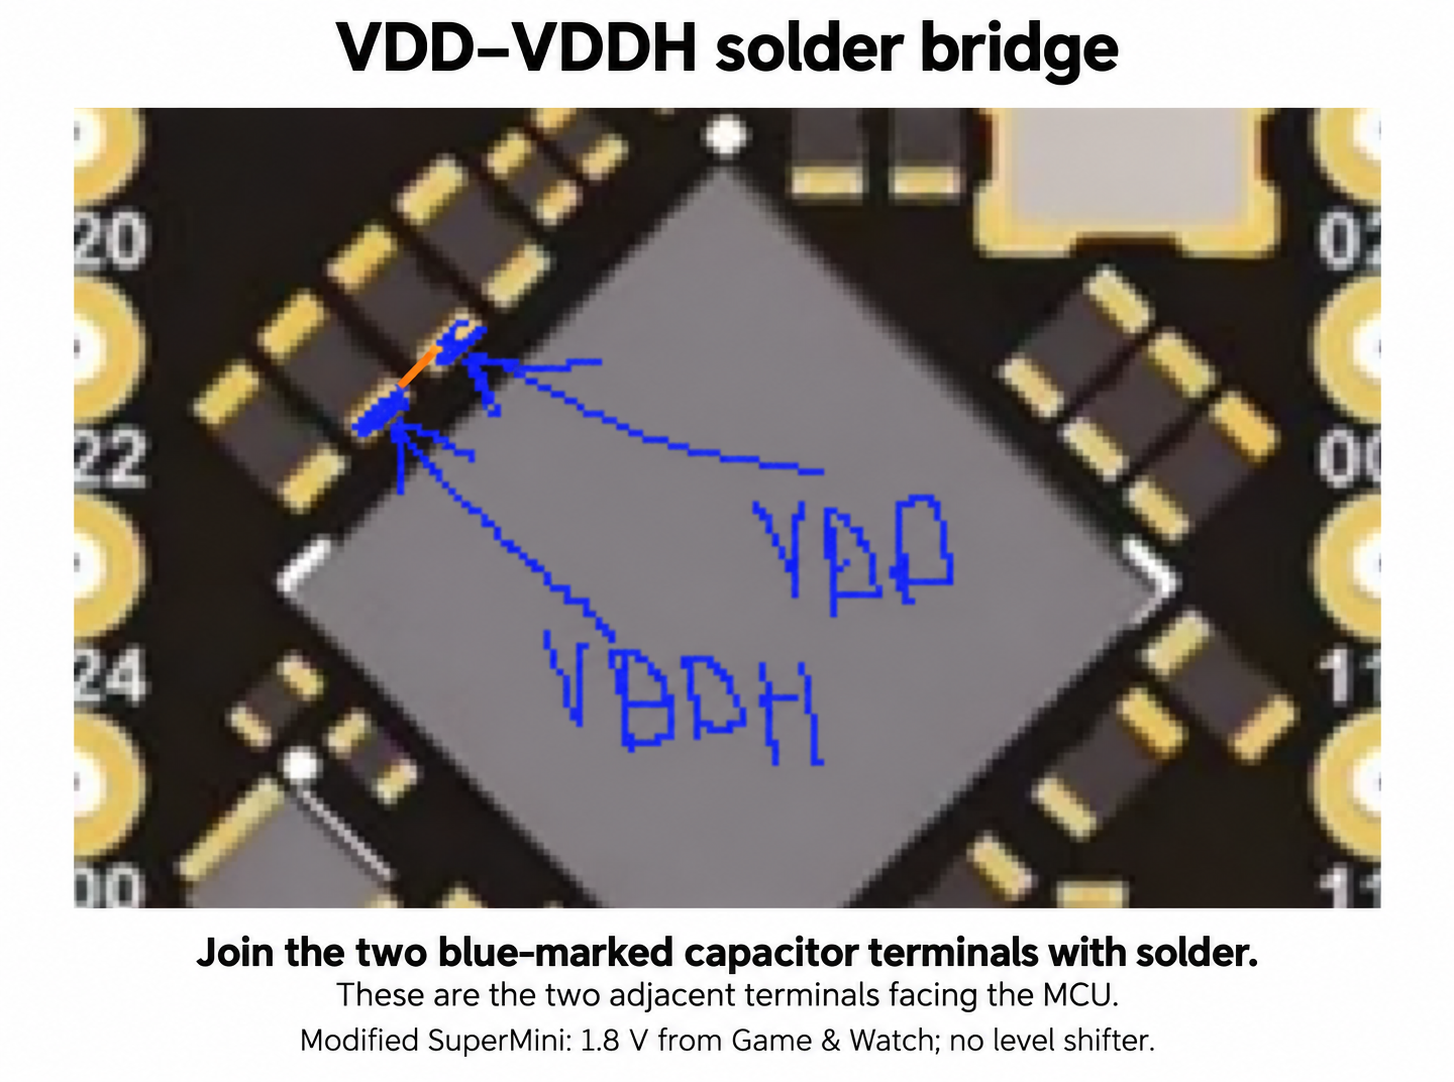
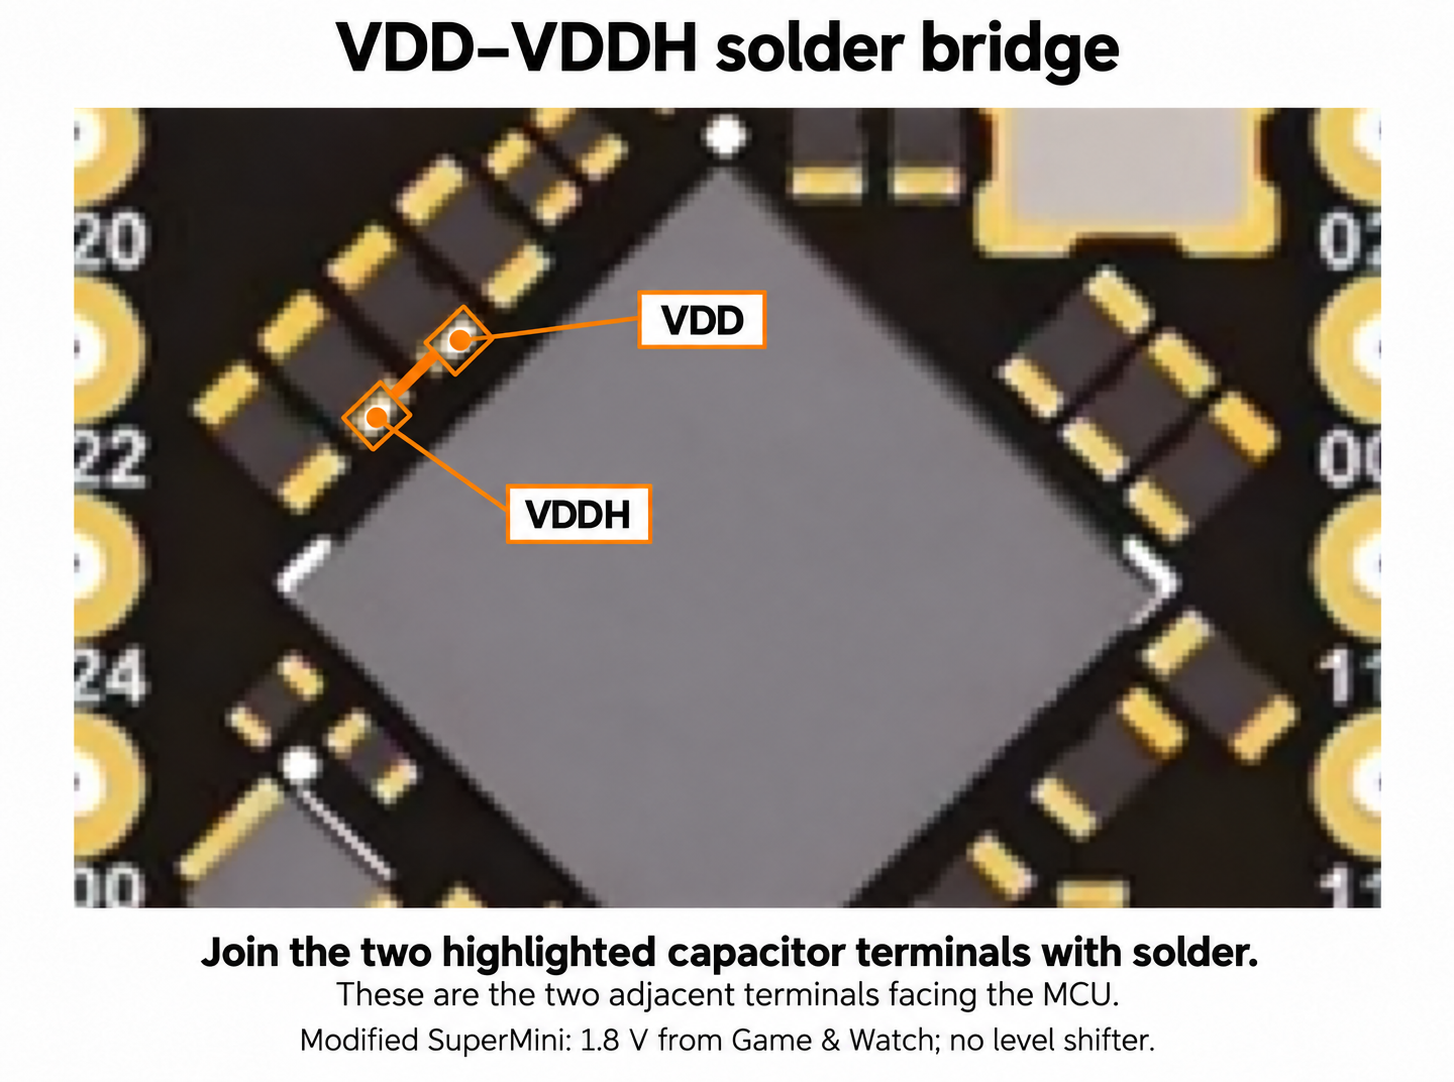
Replace handwritten solder-point annotations with clean labels

diff --git a/docs/images/README.md b/docs/images/README.md
@@ -13,8 +13,9 @@ capacitor terminals used to join VDD and VDDH with solder.
 
 The annotated illustrations were produced using the built-in `imagegen` tool.
 The overview's inset represents the electrical supply connection. The close-up
-preserves the maintainer's blue pad markings and adds a short orange bridge
-between them: upper-right VDD and lower-left VDDH, both on the MCU-facing ends
+uses clean VDD and VDDH labels and orange outlines at the maintainer's specified
+solder points, joined by a short orange bridge: upper-right VDD and lower-left
+VDDH, both on the MCU-facing ends
 of the two adjacent capacitors. These are the solder points on the pictured
 revision; check continuity when adapting the modification to another board.
 
@@ -31,11 +32,13 @@ instructions, and keep the removal marks and connection labels clearly readable.
 
 ## Solder-bridge close-up edit brief
 
-Preserve the supplied close-up and its original blue arrows and VDD/VDDH labels.
-Add only a short orange line between the two blue-marked adjacent capacitor
-terminals. Keep component placement unchanged. Add English title and captions
-outside the board image: join these two terminals with solder; they face the MCU;
-the modified SuperMini uses 1.8 V from Game & Watch without a level shifter.
+Preserve the board close-up and the exact two solder points identified by the
+maintainer. Remove all handwritten arrows and labels. Add crisp VDD and VDDH
+label boxes with thin leaders to the correct terminals, orange terminal outlines,
+and a short thicker orange bridge joining them. Keep component placement and
+the bridge location unchanged. Use English title and captions: join these two
+highlighted terminals with solder; they face the MCU; the modified SuperMini
+uses 1.8 V from Game & Watch without a level shifter.
 
 ## References
 

diff --git a/docs/hardware.md b/docs/hardware.md
@@ -28,12 +28,12 @@ layout. Their positions were cross-checked against the matching
 The maintainer supplied this close-up identifying the two capacitor terminals
 used for the VDD–VDDH bridge on the pictured board:
 
-![VDD–VDDH solder bridge between the two blue-marked capacitor terminals](images/supermini-vdd-vddh-solder-bridge.png)
+![VDD–VDDH solder bridge between the two orange-highlighted capacitor terminals](images/supermini-vdd-vddh-solder-bridge.png)
 
 Orient the board with the USB connector above the MCU. The marked capacitors
 are beside the MCU's upper-left edge. Use their **MCU-facing terminals**:
 the upper-right marked pad is VDD, and the adjacent lower-left marked pad is
-VDDH. Join the two blue-marked terminals with a small solder bridge, following
+VDDH. Join the two highlighted terminals with a small solder bridge, following
 the orange line. Both capacitors remain installed; their opposite terminals
 are left untouched. No separate jumper wire is needed between these pads.
 

diff --git a/README.md b/README.md
@@ -60,7 +60,7 @@ of the capacitors facing the MCU: **VDD is the upper-right marked terminal;
 VDDH is the lower-left one**. Keep both capacitors installed and join only these
 two terminals with solder. Leave their opposite terminals untouched.
 
-![Close-up: solder together the two blue-marked capacitor terminals, VDD and VDDH; the orange line shows the bridge](docs/images/supermini-vdd-vddh-solder-bridge.png)
+![Close-up: solder together the two highlighted capacitor terminals labeled VDD and VDDH; the orange line shows the bridge](docs/images/supermini-vdd-vddh-solder-bridge.png)
 
 The orange line shows the physical solder bridge. The overview's supply inset
 shows the same connection electrically. [Image notes](docs/images/README.md).
